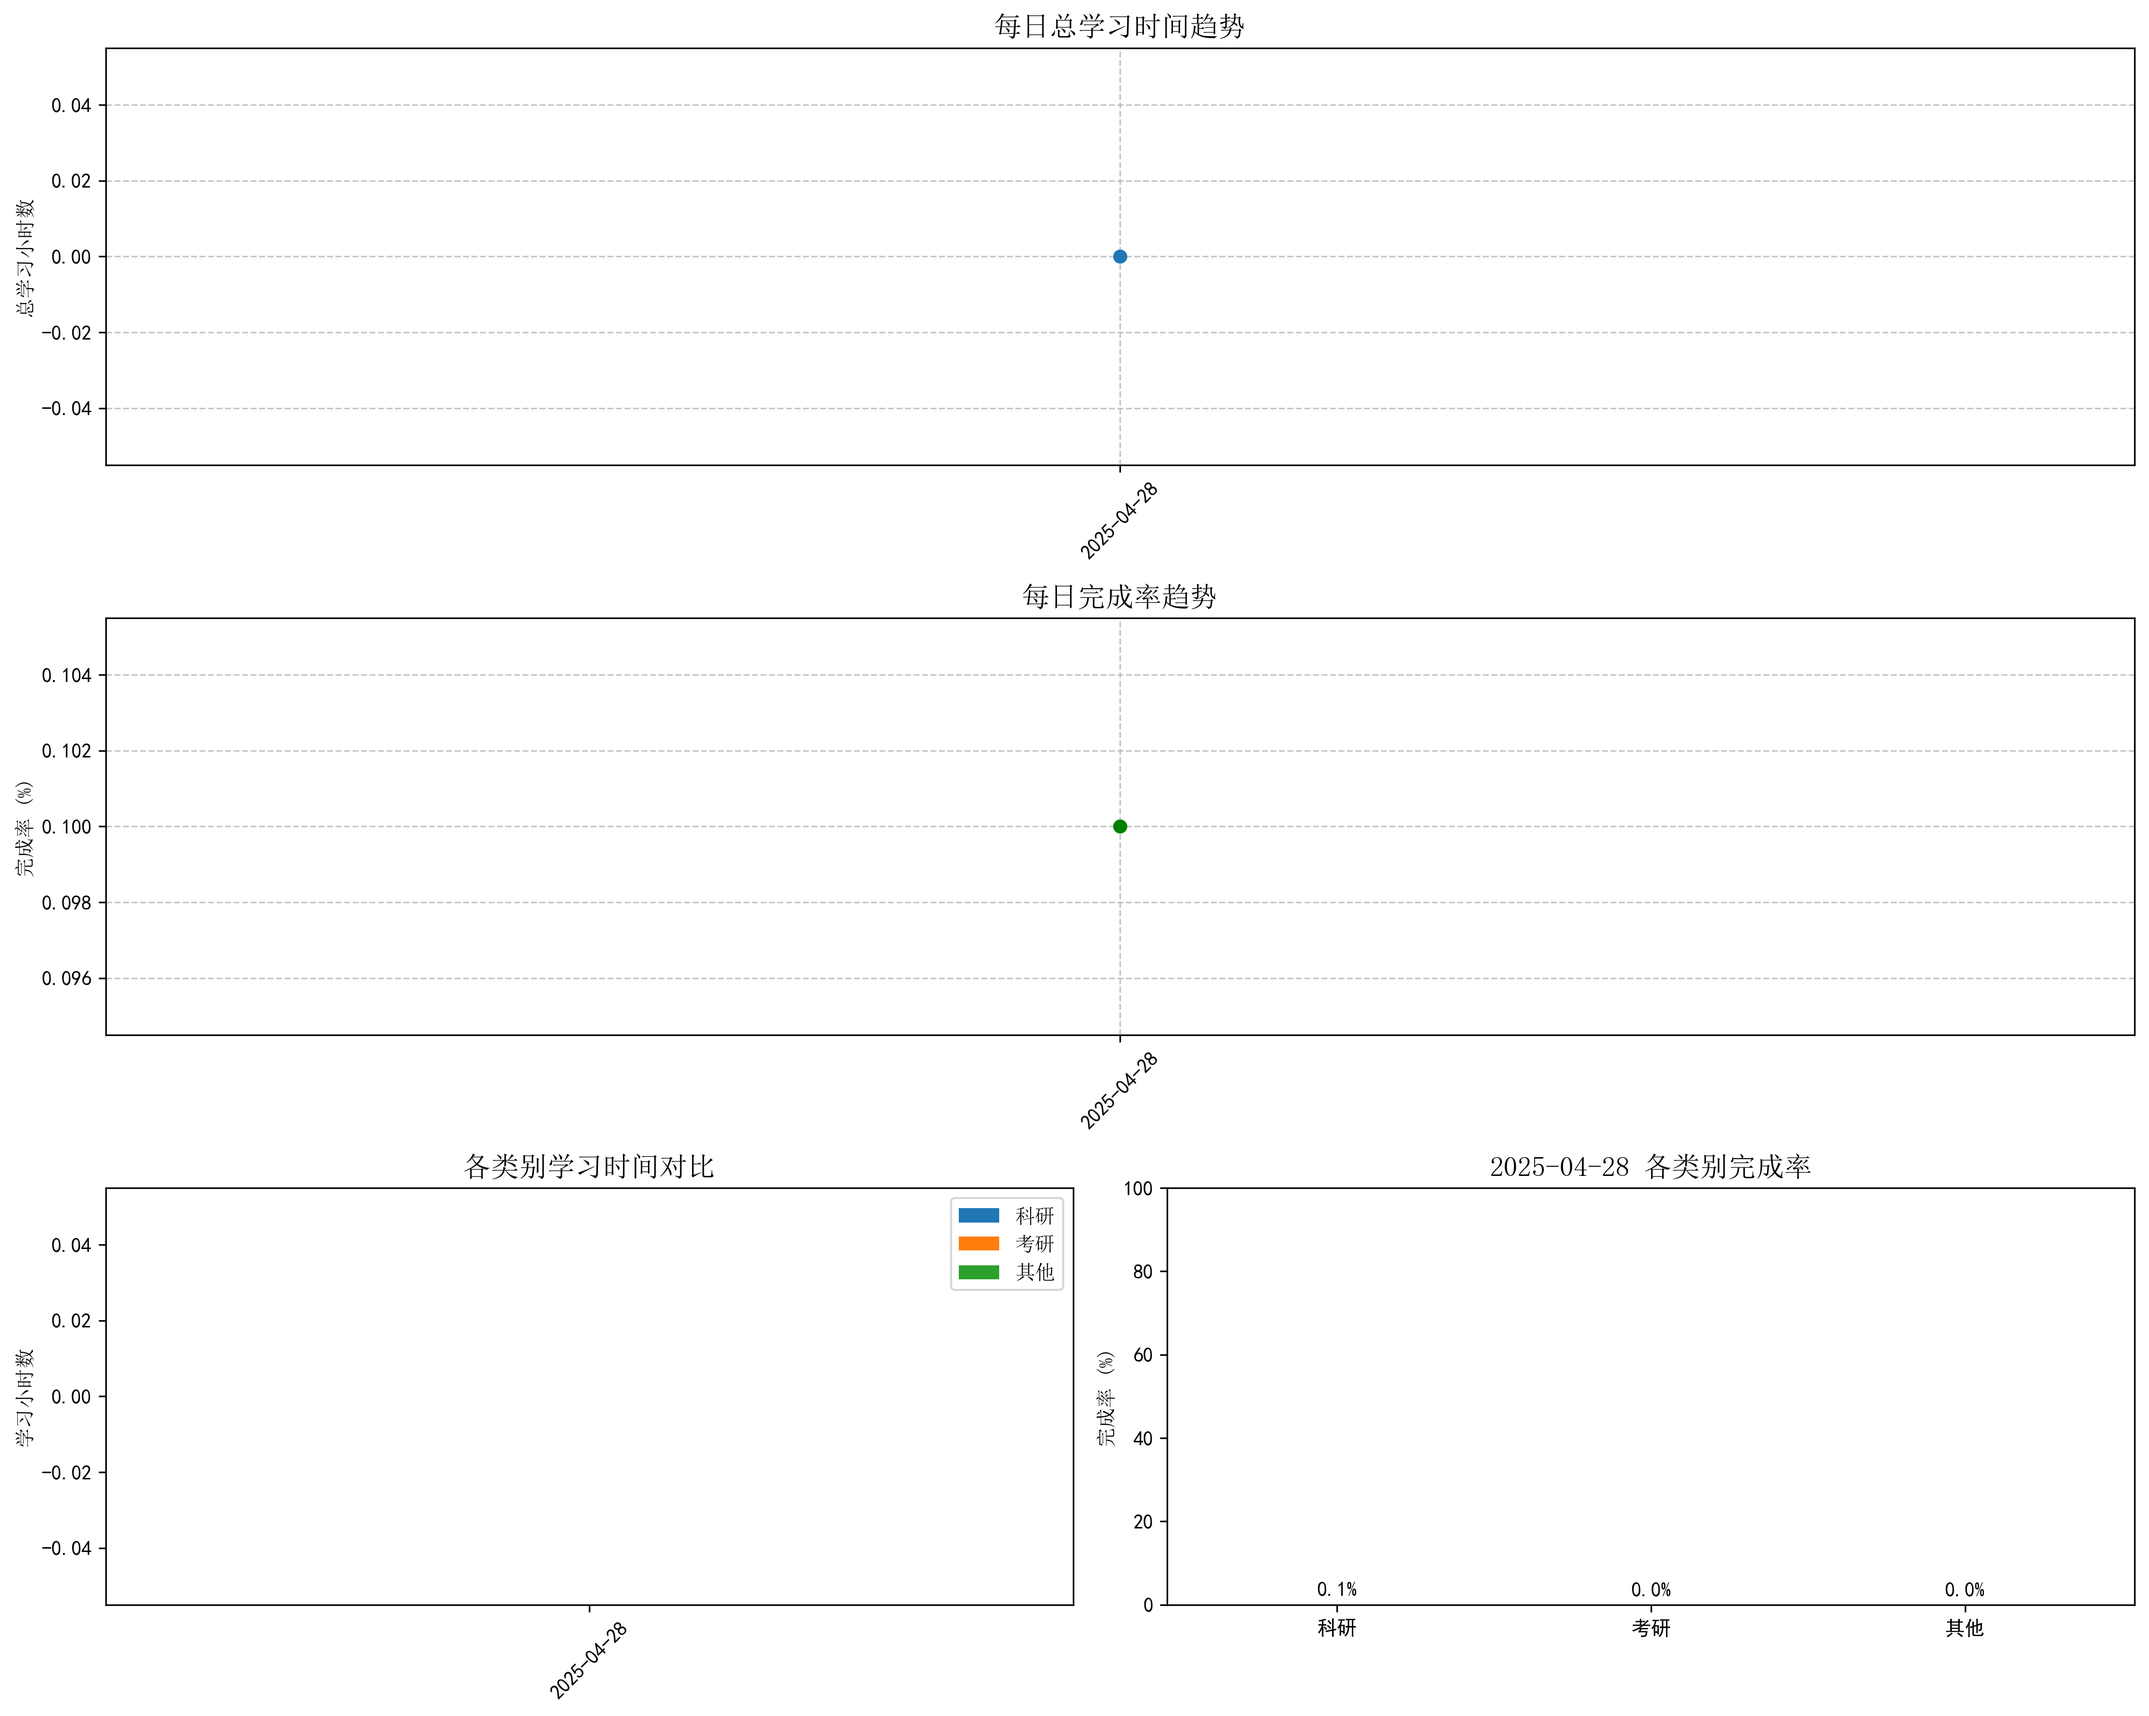
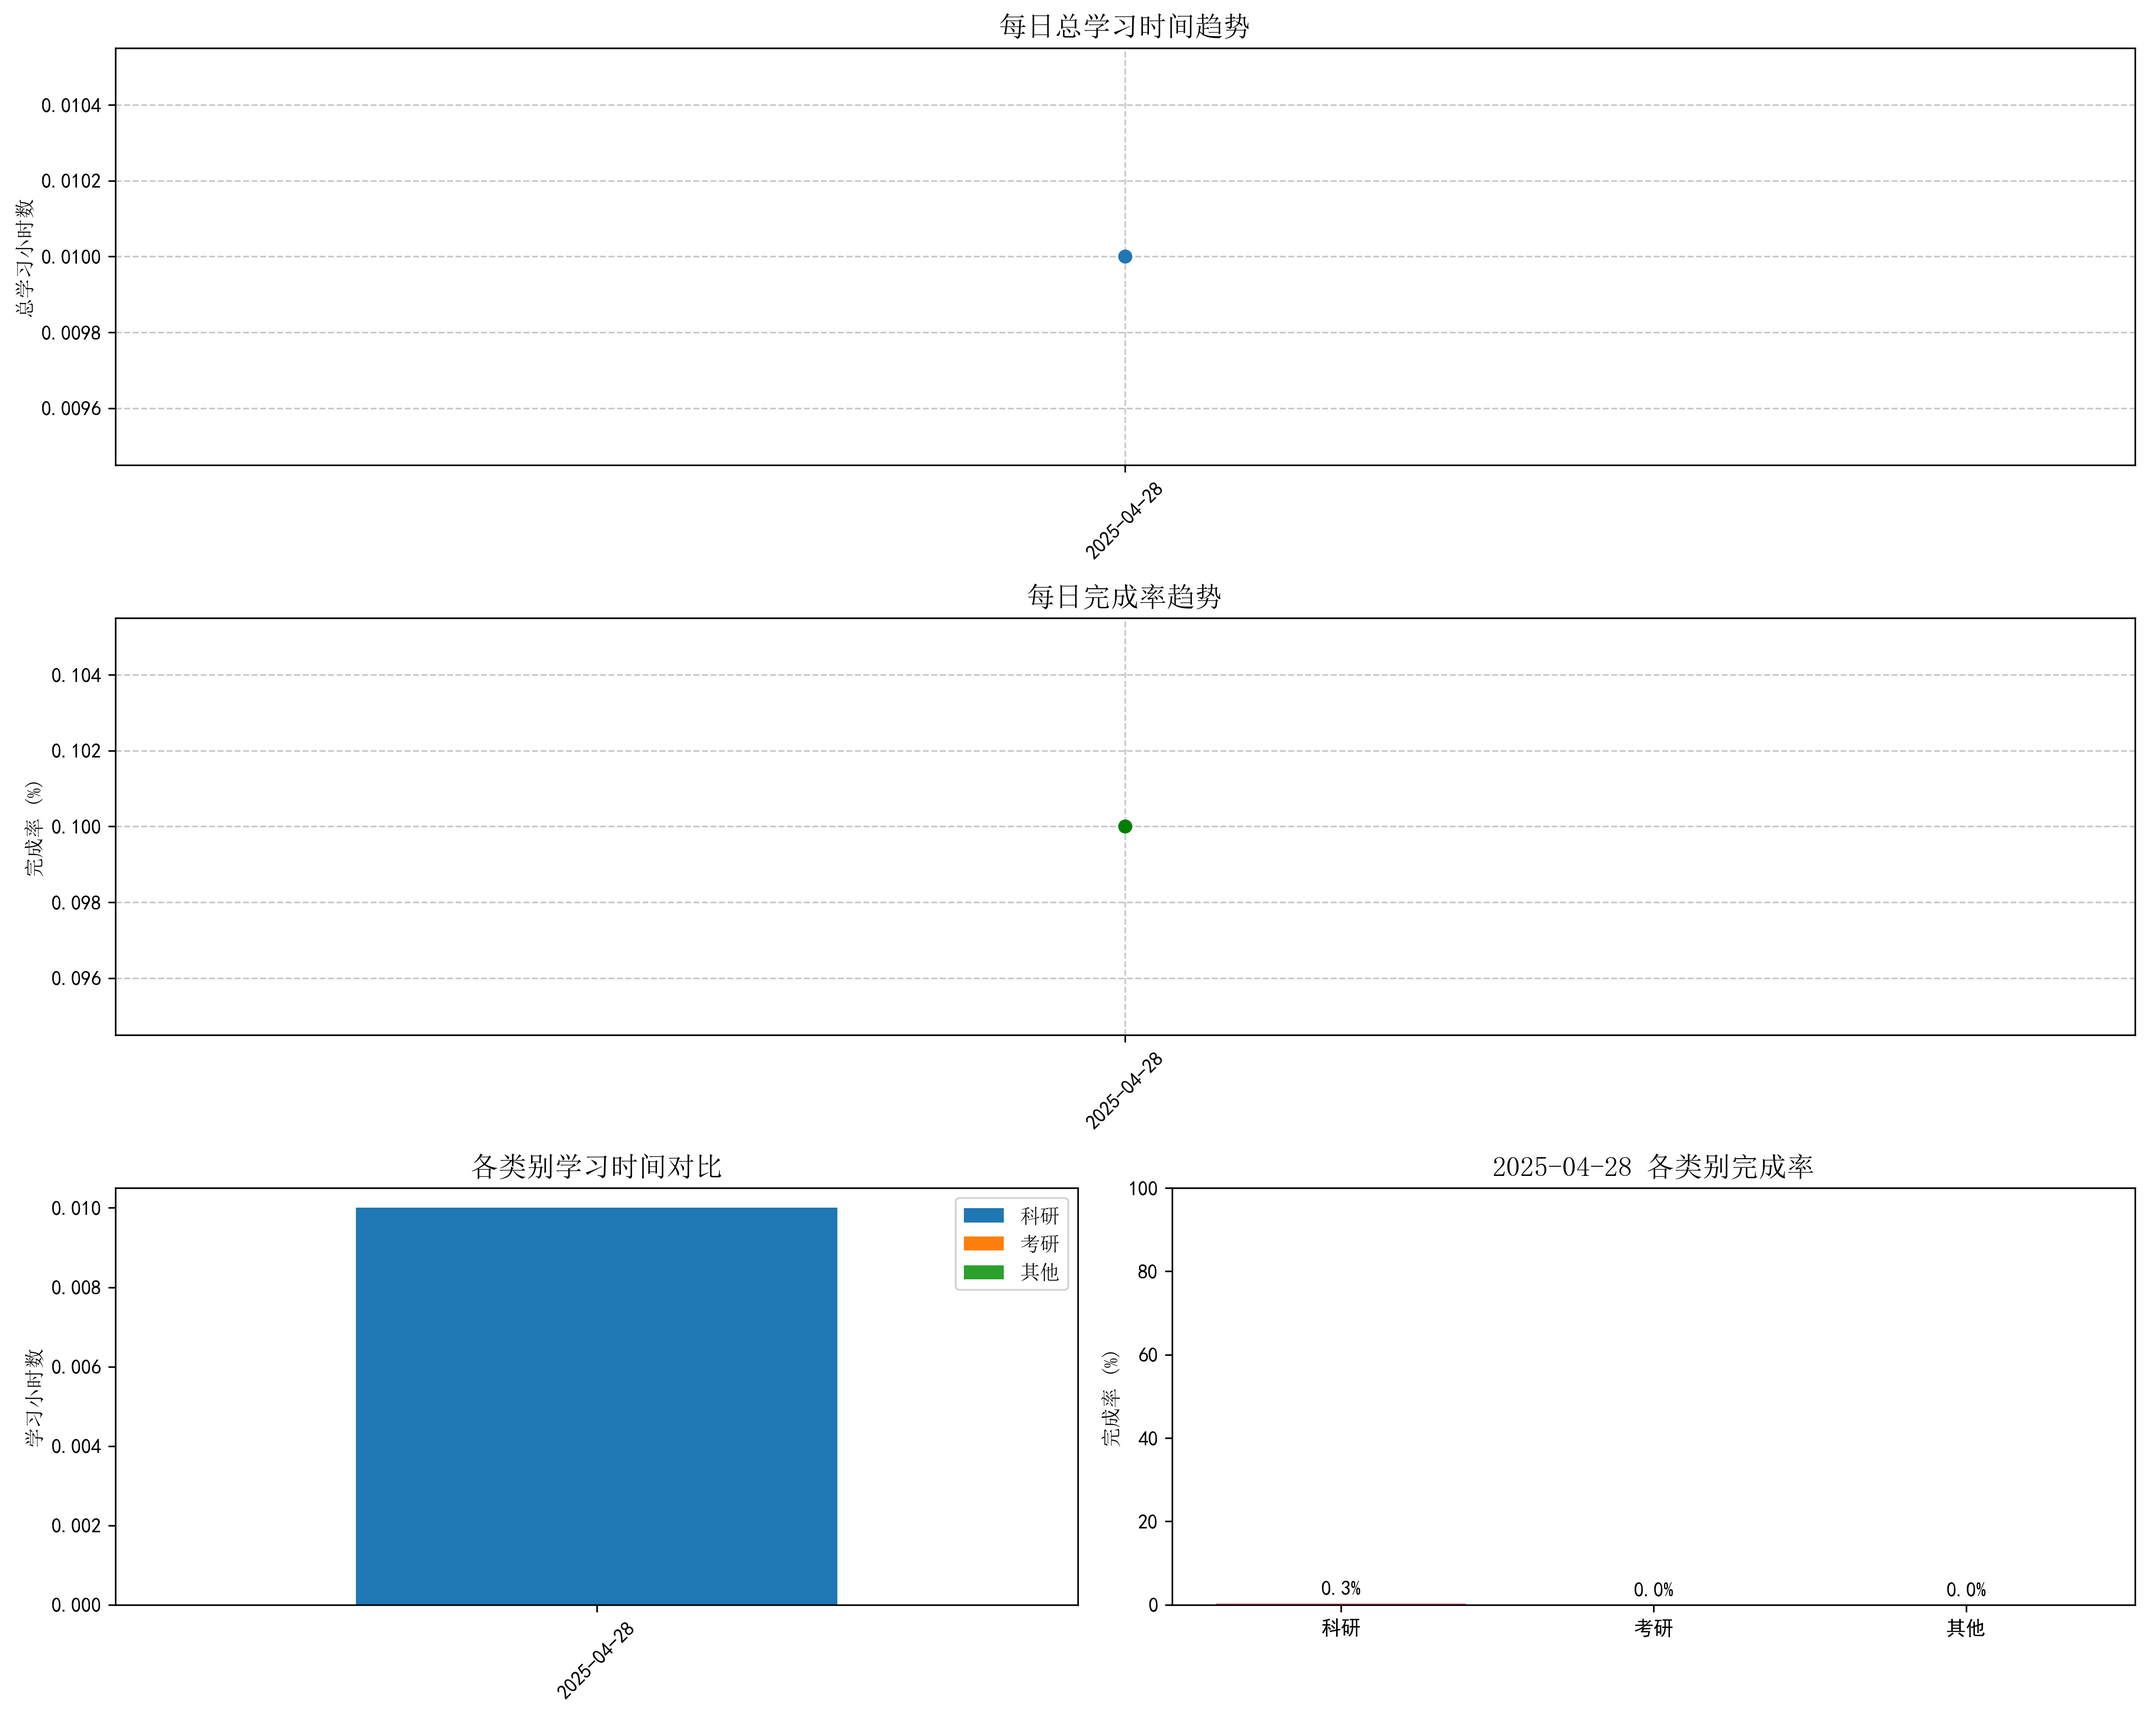
将开始和暂停按钮放在一起

diff --git a/js/script.js b/js/script.js
@@ -301,8 +301,7 @@ document.addEventListener('DOMContentLoaded', () => {
             this.name = timerTitles[id];
             
             this.displayElement = this.element.querySelector('.timer-display');
-            this.startBtn = this.element.querySelector('.start-btn');
-            this.pauseBtn = this.element.querySelector('.pause-btn');
+            this.toggleBtn = this.element.querySelector('.toggle-btn');
             
             this.interval = null;
             this.running = false;
@@ -313,17 +312,26 @@ document.addEventListener('DOMContentLoaded', () => {
             this.setupEventListeners();
             this.loadFromLocalStorage();
             this.updateDisplay();
+            this.updateButtonState();
         }
         
         setupEventListeners() {
-            this.startBtn.addEventListener('click', () => this.start());
-            this.pauseBtn.addEventListener('click', () => this.pause());
+            this.toggleBtn.addEventListener('click', () => this.toggle());
+        }
+        
+        toggle() {
+            if (this.running) {
+                this.pause();
+            } else {
+                this.start();
+            }
         }
         
         start() {
             if (this.running) return;
             
             this.running = true;
+            this.updateButtonState();
             this.lastSyncTime = Date.now();
             this.interval = setInterval(() => {
                 this.remainingSeconds--;
@@ -355,6 +363,7 @@ document.addEventListener('DOMContentLoaded', () => {
             if (!this.running) return;
             
             this.running = false;
+            this.updateButtonState();
             clearInterval(this.interval);
             this.saveToLocalStorage();
             this.syncToServer();
@@ -362,6 +371,16 @@ document.addEventListener('DOMContentLoaded', () => {
             // 更新统计数据（如果统计面板可见）
             if (!statsContainer.classList.contains('hidden')) {
                 fetchStudyStats();
+            }
+        }
+        
+        updateButtonState() {
+            if (this.running) {
+                this.toggleBtn.textContent = '暂停';
+                this.toggleBtn.classList.add('running');
+            } else {
+                this.toggleBtn.textContent = '开始';
+                this.toggleBtn.classList.remove('running');
             }
         }
         

diff --git a/index.html b/index.html
@@ -94,8 +94,7 @@
                 <div class="timer-header">
                     <h3 class="timer-title">科研</h3>
                     <div class="timer-controls">
-                        <button class="start-btn">开始</button>
-                        <button class="pause-btn">暂停</button>
+                        <button class="toggle-btn">开始</button>
                     </div>
                 </div>
                 <div class="timer-display">03:00:00</div>
@@ -106,8 +105,7 @@
                 <div class="timer-header">
                     <h3 class="timer-title">考研</h3>
                     <div class="timer-controls">
-                        <button class="start-btn">开始</button>
-                        <button class="pause-btn">暂停</button>
+                        <button class="toggle-btn">开始</button>
                     </div>
                 </div>
                 <div class="timer-display">03:00:00</div>
@@ -118,8 +116,7 @@
                 <div class="timer-header">
                     <h3 class="timer-title">其他</h3>
                     <div class="timer-controls">
-                        <button class="start-btn">开始</button>
-                        <button class="pause-btn">暂停</button>
+                        <button class="toggle-btn">开始</button>
                     </div>
                 </div>
                 <div class="timer-display">03:00:00</div>

diff --git a/css/style.css b/css/style.css
@@ -225,14 +225,14 @@ button {
     transition: background-color 0.2s;
 }
 
-.start-btn {
+.toggle-btn {
     background-color: #27ae60;
     color: white;
+    width: 80px;
 }
 
-.pause-btn {
+.toggle-btn.running {
     background-color: #f39c12;
-    color: white;
 }
 
 button:hover {

diff --git a/学习时间统计报告.html b/学习时间统计报告.html
@@ -29,7 +29,7 @@
     <tr>
       <td>2025-04-28</td>
       <td>9</td>
-      <td>0</td>
+      <td>0.01</td>
       <td>0.1</td>
     </tr>
   </tbody>
